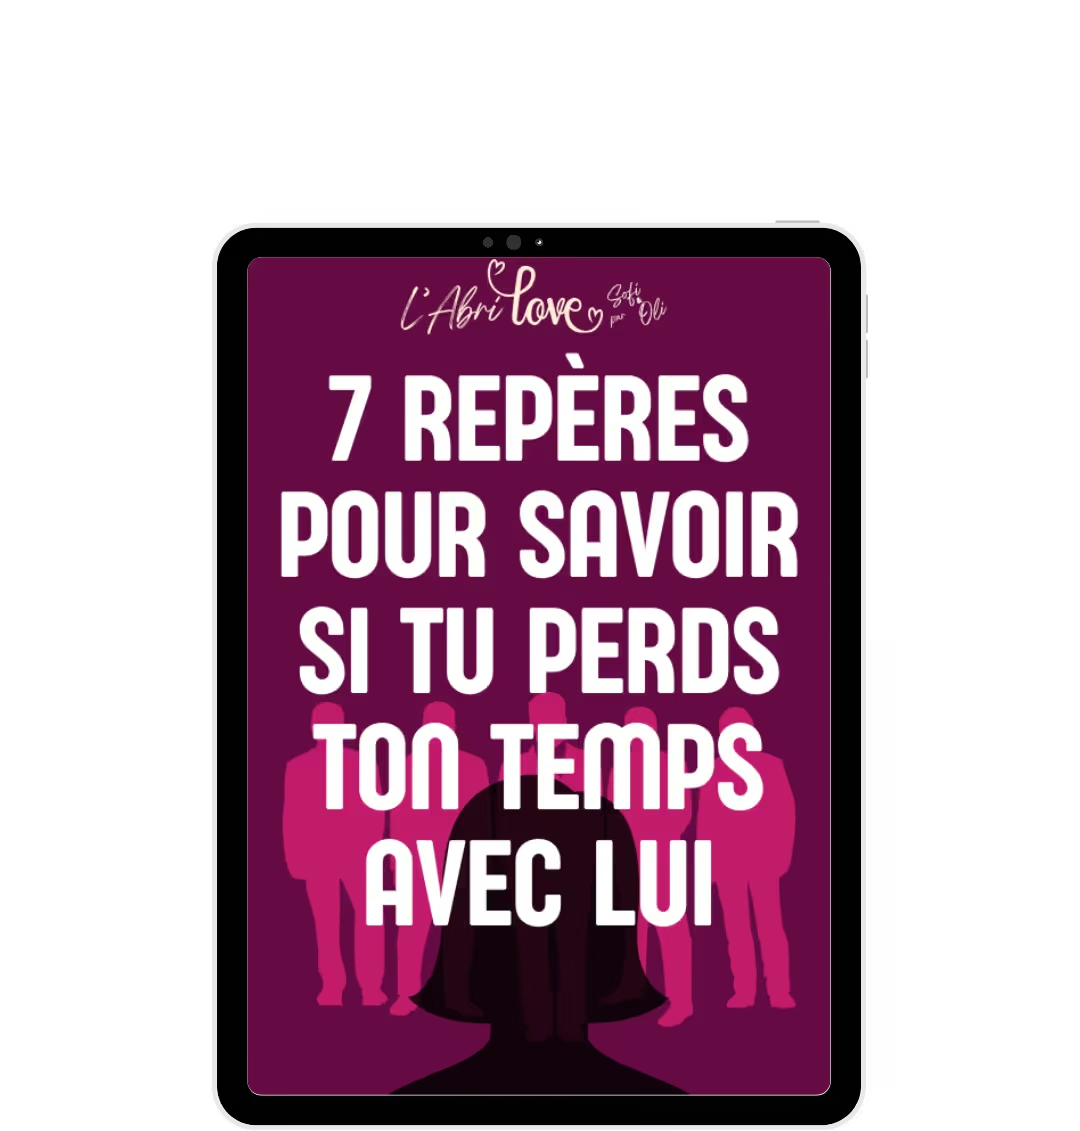
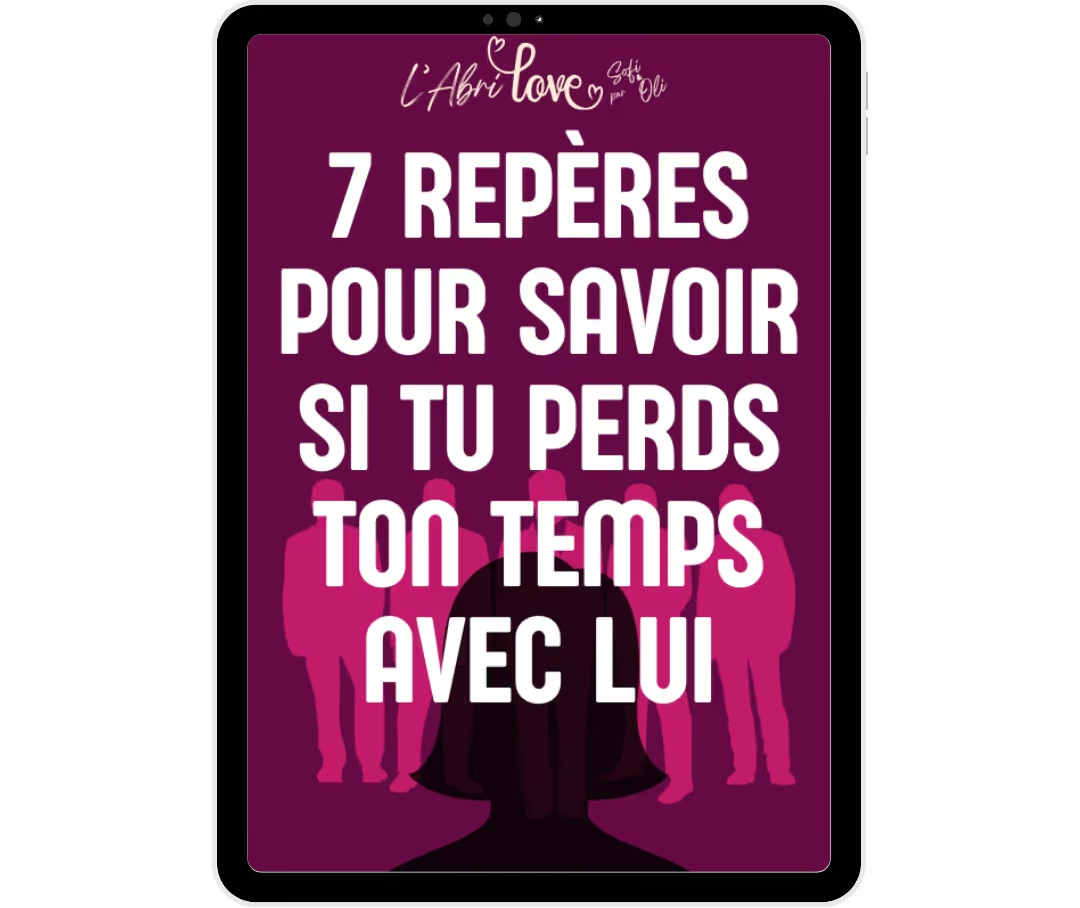
Fix /amour : images croppées, ebooks payants fond sombre, cours réel, tabs wrap mobile
- Crop 223px blanc en haut de toutes les covers gratuites (1080x908)
- Crop covers payantes au même ratio (1080x907)
- Ajout image/card cours L'Abri de soi
- Ebooks payants sur fond rose foncé avec waves
- Suppression label Guide sur les cards payantes
- Tabs : flexWrap sur mobile (plus de scroll horizontal)
- Blob1 déplacé à top:40% (évite le halo sur la barre du header)
- Gradient hero aligné avec les autres pages

diff --git a/src/views/AmourPage.jsx b/src/views/AmourPage.jsx
@@ -4,6 +4,16 @@ import Header from './Header'
 import Footer from './Footer'
 import Link from 'next/link'
 
+const COURS = [
+  {
+    id: 'abri-de-soi',
+    cover: '/images/cours-abri-de-soi.png',
+    title: "L'Abri de soi",
+    description: "Le programme dans lequel tu cesses enfin de douter de ta valeur. Tu apprends à ne plus courir après la validation, à fermer les portes du passé et à reconstruire une confiance solide, celle que plus rien ni personne ne peut t'enlever.",
+    link: 'https://abri-love.webflow.io/re-construis-ta-confiance',
+  },
+]
+
 const PAID_EBOOKS = [
   {
     id: 'dating',
@@ -48,7 +58,7 @@ const EBOOKS = [
     listId: 20,
     cover: '/images/ebook-7-habitudes.png',
     title: '7 habitudes qui reconstruisent ta confiance (vraiment)',
-    description: "Reprends en main tes relations et ne laisse plus jamais une seule personne te ghoster.",
+    description: "Les 7 habitudes concrètes pour reconstruire une confiance solide et cesser de douter de toi en amour.",
   },
   {
     id: 'courir',
@@ -211,6 +221,8 @@ export default function AmourPage() {
         @keyframes blob3 { 0%,100% { transform:translate(0,0) scale(1); } 50% { transform:translate(60px,-70px) scale(1.1); } }
         @media (max-width: 720px) {
           .amour-grid { grid-template-columns: 1fr !important; }
+          .amour-tabs { flex-wrap: wrap !important; }
+          .amour-tab { font-size: 12px !important; padding: 8px 16px !important; }
         }
         @media (min-width: 721px) and (max-width: 1080px) {
           .amour-grid { grid-template-columns: repeat(2, 1fr) !important; }
@@ -244,10 +256,10 @@ export default function AmourPage() {
         justifyContent: 'center',
         position: 'relative',
         overflow: 'hidden',
-        background: 'linear-gradient(180deg, #660A43 0%, #660A43 20%, #8a1258 55%, #660A43 100%)',
+        background: 'linear-gradient(180deg, #660A43 0%, #8a1258 50%, #660A43 100%)',
       }}>
         <div style={{ position: 'absolute', inset: 0, pointerEvents: 'none', zIndex: 0 }}>
-          <div style={{ position: 'absolute', width: 500, height: 500, borderRadius: '50%', background: 'radial-gradient(circle, rgba(190,25,105,0.6) 0%, transparent 65%)', top: '20%', right: '-10%', filter: 'blur(50px)', animation: 'blob1 6s ease-in-out infinite' }} />
+          <div style={{ position: 'absolute', width: 500, height: 500, borderRadius: '50%', background: 'radial-gradient(circle, rgba(190,25,105,0.6) 0%, transparent 65%)', top: '40%', right: '-10%', filter: 'blur(50px)', animation: 'blob1 6s ease-in-out infinite' }} />
           <div style={{ position: 'absolute', width: 400, height: 400, borderRadius: '50%', background: 'radial-gradient(circle, rgba(160,15,85,0.55) 0%, transparent 65%)', bottom: '0%', left: '-10%', filter: 'blur(45px)', animation: 'blob2 8s ease-in-out infinite' }} />
           <div style={{ position: 'absolute', width: 320, height: 320, borderRadius: '50%', background: 'radial-gradient(circle, rgba(210,40,120,0.5) 0%, transparent 65%)', top: '50%', left: '20%', filter: 'blur(50px)', animation: 'blob3 7s ease-in-out infinite' }} />
         </div>
@@ -268,8 +280,8 @@ export default function AmourPage() {
       </section>
 
       {/* ── TABS ── */}
-      <div style={{ background: '#FFF4F7', padding: '28px clamp(32px,5vw,80px) 0', position: 'sticky', top: 0, zIndex: 10, borderBottom: '1px solid rgba(102,10,67,0.08)' }}>
-        <div style={{ maxWidth: 1200, margin: '0 auto', display: 'flex', gap: 10, overflowX: 'auto', paddingBottom: 20 }}>
+      <div style={{ background: '#FFF4F7', padding: '24px clamp(32px,5vw,80px)', borderBottom: '1px solid rgba(102,10,67,0.08)' }}>
+        <div className="amour-tabs" style={{ maxWidth: 1200, margin: '0 auto', display: 'flex', gap: 10, flexWrap: 'wrap' }}>
           {[
             { id: 'all', label: 'Tout' },
             { id: 'gratuit', label: 'Ressources gratuites' },
@@ -306,14 +318,7 @@ export default function AmourPage() {
               Tes guides offerts
             </h2>
           </div>
-          <div
-            className="amour-grid"
-            style={{
-              display: 'grid',
-              gridTemplateColumns: 'repeat(3, 1fr)',
-              gap: 28,
-            }}
-          >
+          <div className="amour-grid" style={{ display: 'grid', gridTemplateColumns: 'repeat(3, 1fr)', gap: 28 }}>
             {EBOOKS.map((ebook, i) => (
               <div key={ebook.id} data-fade className="amour-card" style={{ transitionDelay: `${i * 0.08}s` }}>
                 <EbookCard ebook={ebook} />
@@ -323,8 +328,13 @@ export default function AmourPage() {
         </div>
       </section>
 
-      {/* ── SÉPARATEUR ── */}
-      <section style={{ background: 'linear-gradient(180deg, #660A43 0%, #8a1258 50%, #660A43 100%)', padding: 'calc(clamp(16px,2vw,28px) + 80px) clamp(32px,5vw,80px)', position: 'relative', textAlign: 'center', display: activeTab === 'all' ? 'block' : 'none' }}>
+      {/* ── EBOOKS PAYANTS (fond sombre) ── */}
+      <section style={{
+        background: 'linear-gradient(180deg, #660A43 0%, #8a1258 50%, #660A43 100%)',
+        padding: 'calc(clamp(32px,4vw,56px) + 80px) clamp(32px,5vw,80px) calc(clamp(56px,6vw,80px) + 80px)',
+        position: 'relative',
+        display: activeTab === 'all' || activeTab === 'guides' ? 'block' : 'none',
+      }}>
         <div style={{ position: 'absolute', top: -1, left: 0, width: '100%', lineHeight: 0, zIndex: 2, pointerEvents: 'none' }}>
           <svg viewBox="0 0 1440 80" preserveAspectRatio="none" style={{ display: 'block', width: '100%', height: 80 }}>
             <path d="M0,0 L0,45 Q720,22 1440,45 L1440,0 Z" fill="#FFF4F7" />
@@ -335,29 +345,19 @@ export default function AmourPage() {
             <path d="M0,35 Q720,58 1440,35 L1440,80 L0,80 Z" fill="#FFF4F7" />
           </svg>
         </div>
-        <div data-fade style={{ position: 'relative', zIndex: 1 }}>
-          <p style={{ fontFamily: 'var(--font-playfair,serif)', color: '#FFF1E7', fontSize: 'clamp(18px,2.5vw,28px)', fontWeight: 700 }}>
-            Tu veux aller plus loin ?
-          </p>
-        </div>
-      </section>
-
-      {/* ── EBOOKS PAYANTS ── */}
-      <section style={{ background: '#FFF4F7', padding: 'clamp(32px,4vw,56px) clamp(32px,5vw,80px) clamp(56px,6vw,80px)', display: activeTab === 'all' || activeTab === 'guides' ? 'block' : 'none' }}>
-        <div style={{ maxWidth: 1200, margin: '0 auto' }}>
+        <div style={{ maxWidth: 1200, margin: '0 auto', position: 'relative', zIndex: 1 }}>
           <div data-fade>
-            <p style={{ color: '#660A43', fontSize: 12, fontWeight: 700, letterSpacing: '0.2em', textTransform: 'uppercase', marginBottom: 12 }}>Nos guides</p>
-            <h2 style={{ fontFamily: 'var(--font-playfair,serif)', color: '#660A43', fontSize: 'clamp(24px,3.5vw,40px)', fontWeight: 700, lineHeight: 1.3, marginBottom: 48 }}>
-              Tes guides complets
+            <p style={{ color: 'rgba(255,241,231,0.55)', fontSize: 12, fontWeight: 700, letterSpacing: '0.2em', textTransform: 'uppercase', marginBottom: 12 }}>Nos guides</p>
+            <h2 style={{ fontFamily: 'var(--font-playfair,serif)', color: '#FFF1E7', fontSize: 'clamp(24px,3.5vw,40px)', fontWeight: 700, lineHeight: 1.3, marginBottom: 48 }}>
+              Tu veux aller plus loin ?
             </h2>
           </div>
-          <div data-fade className="amour-grid" style={{ display: 'grid', gridTemplateColumns: 'repeat(3, 1fr)', gap: 28 }}>
+          <div className="amour-grid" style={{ display: 'grid', gridTemplateColumns: 'repeat(3, 1fr)', gap: 28 }}>
             {PAID_EBOOKS.map((ebook, i) => (
-              <div key={ebook.id} className="amour-card" style={{ transitionDelay: `${i * 0.08}s` }}>
-                <a href={ebook.link} target="_blank" rel="noopener noreferrer" style={{ textDecoration: 'none', display: 'flex', flexDirection: 'column', height: '100%', background: '#fff', borderRadius: 20, overflow: 'hidden', boxShadow: '0 6px 32px rgba(102,10,67,0.10)' }}>
+              <div key={ebook.id} data-fade className="amour-card" style={{ transitionDelay: `${i * 0.08}s` }}>
+                <a href={ebook.link} target="_blank" rel="noopener noreferrer" style={{ textDecoration: 'none', display: 'flex', flexDirection: 'column', height: '100%', background: '#fff', borderRadius: 20, overflow: 'hidden', boxShadow: '0 6px 32px rgba(102,10,67,0.15)' }}>
                   <div style={{ position: 'relative' }}>
                     <img src={ebook.cover} alt={ebook.title} style={{ width: '100%', height: 'auto', display: 'block' }} />
-                    <div style={{ position: 'absolute', top: 14, left: 14, background: '#E8196E', color: '#fff', fontSize: 11, fontWeight: 700, letterSpacing: '0.12em', textTransform: 'uppercase', borderRadius: 6, padding: '4px 10px' }}>Guide</div>
                   </div>
                   <div style={{ padding: '20px 20px 28px', display: 'flex', flexDirection: 'column', flex: 1 }}>
                     <h3 style={{ fontFamily: 'var(--font-playfair,serif)', color: '#660A43', fontSize: 17, fontWeight: 700, lineHeight: 1.35, marginBottom: 10 }}>{ebook.title}</h3>
@@ -374,36 +374,41 @@ export default function AmourPage() {
       </section>
 
       {/* ── COURS & WORKSHOPS ── */}
-      {(activeTab === 'all' || activeTab === 'cours') && (
-        <section style={{ background: activeTab === 'cours' ? '#FFF4F7' : 'linear-gradient(180deg, #660A43 0%, #8a1258 50%, #660A43 100%)', padding: activeTab === 'cours' ? 'clamp(32px,4vw,56px) clamp(32px,5vw,80px) clamp(56px,6vw,80px)' : 'calc(clamp(16px,2vw,28px) + 80px) clamp(32px,5vw,80px)', position: 'relative', textAlign: 'center' }}>
-          {activeTab === 'cours' ? null : (
-            <>
-              <div style={{ position: 'absolute', top: -1, left: 0, width: '100%', lineHeight: 0, zIndex: 2, pointerEvents: 'none' }}>
-                <svg viewBox="0 0 1440 80" preserveAspectRatio="none" style={{ display: 'block', width: '100%', height: 80 }}>
-                  <path d="M0,0 L0,45 Q720,22 1440,45 L1440,0 Z" fill="#FFF4F7" />
-                </svg>
-              </div>
-              <div style={{ position: 'absolute', bottom: -1, left: 0, width: '100%', lineHeight: 0, zIndex: 2, pointerEvents: 'none' }}>
-                <svg viewBox="0 0 1440 80" preserveAspectRatio="none" style={{ display: 'block', width: '100%', height: 80 }}>
-                  <path d="M0,35 Q720,58 1440,35 L1440,80 L0,80 Z" fill="#FFF4F7" />
-                </svg>
-              </div>
-            </>
-          )}
-          <div data-fade style={{ maxWidth: 560, margin: '0 auto', position: 'relative', zIndex: 1 }}>
-            <p style={{ fontSize: 40, marginBottom: 20 }}>🚧</p>
-            <p style={{ color: activeTab === 'cours' ? '#660A43' : 'rgba(255,241,231,0.55)', fontSize: 12, fontWeight: 700, letterSpacing: '0.2em', textTransform: 'uppercase', marginBottom: 16 }}>Bientôt disponible</p>
-            <h2 style={{ fontFamily: 'var(--font-playfair,serif)', color: activeTab === 'cours' ? '#660A43' : '#FFF1E7', fontSize: 'clamp(22px,3.5vw,38px)', fontWeight: 700, lineHeight: 1.2, marginBottom: 16 }}>
-              Cours & Workshops
+      <section style={{
+        background: '#FFF4F7',
+        padding: 'clamp(32px,4vw,56px) clamp(32px,5vw,80px) clamp(56px,6vw,80px)',
+        display: activeTab === 'all' || activeTab === 'cours' ? 'block' : 'none',
+      }}>
+        <div style={{ maxWidth: 1200, margin: '0 auto' }}>
+          <div data-fade>
+            <p style={{ color: '#660A43', fontSize: 12, fontWeight: 700, letterSpacing: '0.2em', textTransform: 'uppercase', marginBottom: 12 }}>Cours & Workshops</p>
+            <h2 style={{ fontFamily: 'var(--font-playfair,serif)', color: '#660A43', fontSize: 'clamp(24px,3.5vw,40px)', fontWeight: 700, lineHeight: 1.3, marginBottom: 48 }}>
+              Les programmes
             </h2>
-            <p style={{ color: activeTab === 'cours' ? '#7a4060' : 'rgba(255,241,231,0.75)', fontSize: 'clamp(15px,1.6vw,17px)', lineHeight: 1.75 }}>
-              Des ateliers en direct et des formations approfondies arrivent très bientôt. Reste à l'affût !
-            </p>
           </div>
-        </section>
-      )}
+          <div className="amour-grid" style={{ display: 'grid', gridTemplateColumns: 'repeat(3, 1fr)', gap: 28 }}>
+            {COURS.map((cours, i) => (
+              <div key={cours.id} data-fade className="amour-card" style={{ transitionDelay: `${i * 0.08}s` }}>
+                <a href={cours.link} target="_blank" rel="noopener noreferrer" style={{ textDecoration: 'none', display: 'flex', flexDirection: 'column', height: '100%', background: '#fff', borderRadius: 20, overflow: 'hidden', boxShadow: '0 6px 32px rgba(102,10,67,0.10)' }}>
+                  <div style={{ position: 'relative' }}>
+                    <img src={cours.cover} alt={cours.title} style={{ width: '100%', height: 'auto', display: 'block' }} />
+                    <div style={{ position: 'absolute', top: 14, left: 14, background: '#E8196E', color: '#fff', fontSize: 11, fontWeight: 700, letterSpacing: '0.12em', textTransform: 'uppercase', borderRadius: 6, padding: '4px 10px' }}>Programme</div>
+                  </div>
+                  <div style={{ padding: '20px 20px 28px', display: 'flex', flexDirection: 'column', flex: 1 }}>
+                    <h3 style={{ fontFamily: 'var(--font-playfair,serif)', color: '#660A43', fontSize: 17, fontWeight: 700, lineHeight: 1.35, marginBottom: 10 }}>{cours.title}</h3>
+                    <p style={{ color: '#7a4060', fontSize: 14, lineHeight: 1.65, marginBottom: 20, flex: 1 }}>{cours.description}</p>
+                    <span className="amour-btn" style={{ background: '#660A43', color: '#fff', border: 'none', borderRadius: 10, padding: '13px 20px', fontSize: 14, fontWeight: 700, textAlign: 'center', display: 'block' }}>
+                      Découvrir le programme
+                    </span>
+                  </div>
+                </a>
+              </div>
+            ))}
+          </div>
+        </div>
+      </section>
 
-      {/* ── SECTION SOMBRE ── */}
+      {/* ── SECTION SOMBRE (Abri IA) ── */}
       <section style={{
         background: 'linear-gradient(180deg, #660A43 0%, #8a1258 50%, #660A43 100%)',
         padding: 'calc(clamp(24px,3vw,44px) + 80px) clamp(32px,5vw,80px)',
